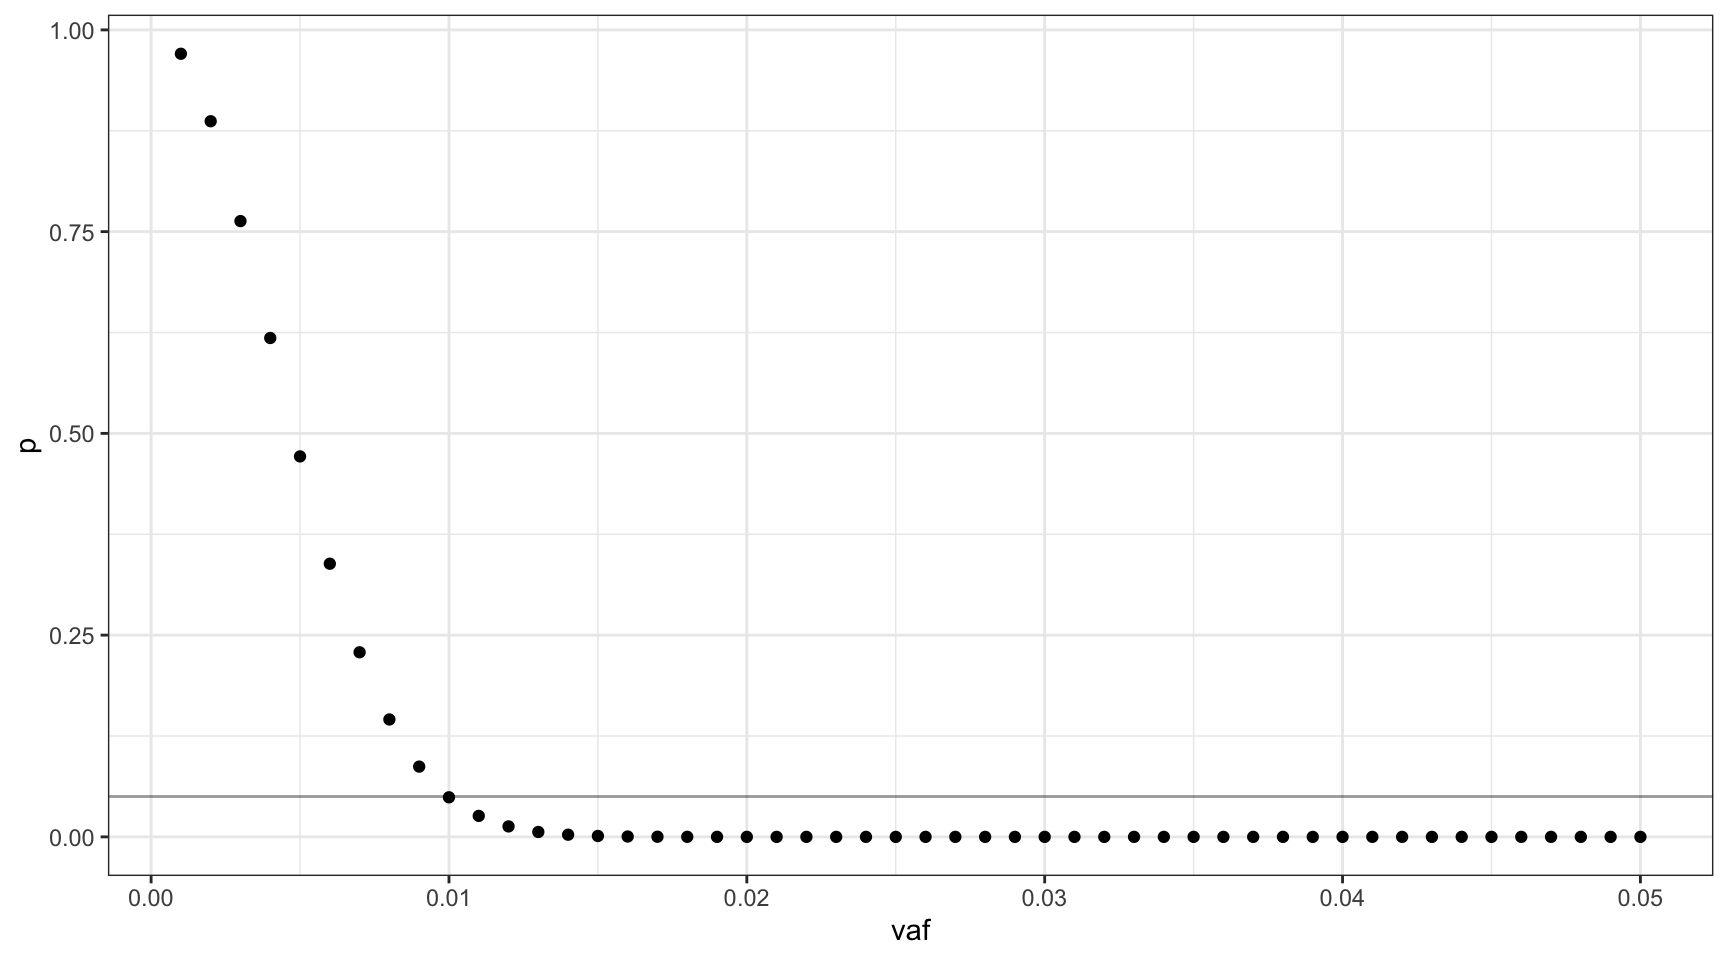
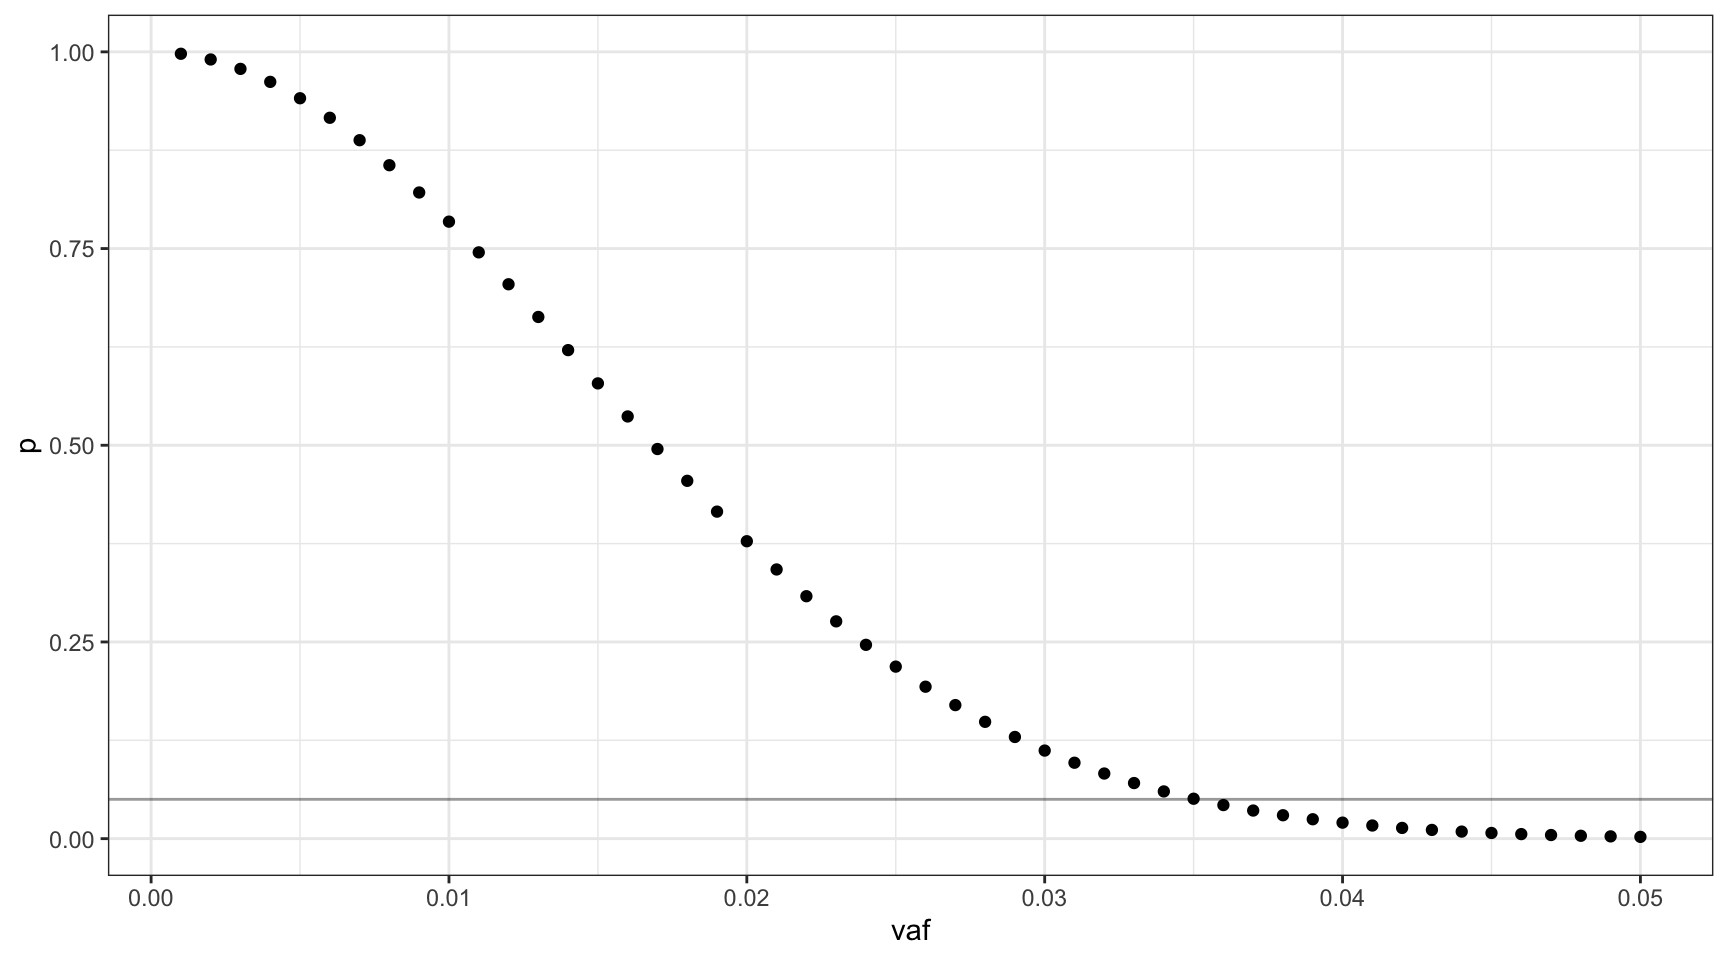
- Fix error in probability calculation - Added varying input cells

diff --git a/docs/model.html b/docs/model.html
@@ -367,7 +367,7 @@ div.tocify {
 
 <p>
 <button type="button" class="btn btn-default btn-workflowr btn-workflowr-report" data-toggle="collapse" data-target="#workflowr-report">
-<span class="glyphicon glyphicon-list" aria-hidden="true"></span> workflowr <span class="glyphicon glyphicon-ok text-success" aria-hidden="true"></span>
+<span class="glyphicon glyphicon-list" aria-hidden="true"></span> workflowr <span class="glyphicon glyphicon-exclamation-sign text-danger" aria-hidden="true"></span>
 </button>
 </p>
 <div id="workflowr-report" class="collapse">
@@ -376,7 +376,7 @@ div.tocify {
 <a data-toggle="tab" href="#summary">Summary</a>
 </li>
 <li>
-<a data-toggle="tab" href="#checks"> Checks <span class="glyphicon glyphicon-ok text-success" aria-hidden="true"></span> </a>
+<a data-toggle="tab" href="#checks"> Checks <span class="glyphicon glyphicon-exclamation-sign text-danger" aria-hidden="true"></span> </a>
 </li>
 <li>
 <a data-toggle="tab" href="#versions">Past versions</a>
@@ -385,10 +385,10 @@ div.tocify {
 <div class="tab-content">
 <div id="summary" class="tab-pane fade in active">
 <p>
-<strong>Last updated:</strong> 2021-09-17
+<strong>Last updated:</strong> 2021-09-22
 </p>
 <p>
-<strong>Checks:</strong> <span class="glyphicon glyphicon-ok text-success" aria-hidden="true"></span> 7 <span class="glyphicon glyphicon-exclamation-sign text-danger" aria-hidden="true"></span> 0
+<strong>Checks:</strong> <span class="glyphicon glyphicon-ok text-success" aria-hidden="true"></span> 6 <span class="glyphicon glyphicon-exclamation-sign text-danger" aria-hidden="true"></span> 1
 </p>
 <p>
 <strong>Knit directory:</strong> <code>rare-mutation-detection-rmarkdown/</code> <span class="glyphicon glyphicon-question-sign" aria-hidden="true" title="This is the local directory in which the code in this file was executed."> </span>
@@ -404,12 +404,12 @@ This reproducible <a href="http://rmarkdown.rstudio.com">R Markdown</a> analysis
 <div class="panel panel-default">
 <div class="panel-heading">
 <p class="panel-title">
-<a data-toggle="collapse" data-parent="#workflowr-checks" href="#strongRMarkdownfilestronguptodate"> <span class="glyphicon glyphicon-ok text-success" aria-hidden="true"></span> <strong>R Markdown file:</strong> up-to-date </a>
+<a data-toggle="collapse" data-parent="#workflowr-checks" href="#strongRMarkdownfilestronguncommittedchanges"> <span class="glyphicon glyphicon-exclamation-sign text-danger" aria-hidden="true"></span> <strong>R Markdown file:</strong> uncommitted changes </a>
 </p>
 </div>
-<div id="strongRMarkdownfilestronguptodate" class="panel-collapse collapse">
+<div id="strongRMarkdownfilestronguncommittedchanges" class="panel-collapse collapse">
 <div class="panel-body">
-<p>Great! Since the R Markdown file has been committed to the Git repository, you know the exact version of the code that produced these results.</p>
+<p>The R Markdown file has unstaged changes. To know which version of the R Markdown file created these results, you’ll want to first commit it to the Git repo. If you’re still working on the analysis, you can ignore this warning. When you’re finished, you can run <code>wflow_publish</code> to commit the R Markdown file and build the HTML.</p>
 </div>
 </div>
 </div>
@@ -476,16 +476,16 @@ This reproducible <a href="http://rmarkdown.rstudio.com">R Markdown</a> analysis
 <div class="panel panel-default">
 <div class="panel-heading">
 <p class="panel-title">
-<a data-toggle="collapse" data-parent="#workflowr-checks" href="#strongRepositoryversionstrongahrefhttpsgithubcommcmeroraremutationdetectiontreeebb9d74647432ec0b35bec27ab7245915b35caa3targetblankebb9d74a"> <span class="glyphicon glyphicon-ok text-success" aria-hidden="true"></span> <strong>Repository version:</strong> <a href="https://github.com/mcmero/rare-mutation-detection/tree/ebb9d74647432ec0b35bec27ab7245915b35caa3" target="_blank">ebb9d74</a> </a>
+<a data-toggle="collapse" data-parent="#workflowr-checks" href="#strongRepositoryversionstrongahrefhttpsgithubcommcmeroraremutationdetectiontreeb680ba04eb31c2ee8ff74999358db02cf37df4a8targetblankb680ba0a"> <span class="glyphicon glyphicon-ok text-success" aria-hidden="true"></span> <strong>Repository version:</strong> <a href="https://github.com/mcmero/rare-mutation-detection/tree/b680ba04eb31c2ee8ff74999358db02cf37df4a8" target="_blank">b680ba0</a> </a>
 </p>
 </div>
[2 lines of base64/hex data omitted]
 <div class="panel-body">
 <p>
 Great! You are using Git for version control. Tracking code development and connecting the code version to the results is critical for reproducibility.
 </p>
 <p>
-The results in this page were generated with repository version <a href="https://github.com/mcmero/rare-mutation-detection/tree/ebb9d74647432ec0b35bec27ab7245915b35caa3" target="_blank">ebb9d74</a>. See the <em>Past versions</em> tab to see a history of the changes made to the R Markdown and HTML files.
+The results in this page were generated with repository version <a href="https://github.com/mcmero/rare-mutation-detection/tree/b680ba04eb31c2ee8ff74999358db02cf37df4a8" target="_blank">b680ba0</a>. See the <em>Past versions</em> tab to see a history of the changes made to the R Markdown and HTML files.
 </p>
 <p>
 Note that you need to be careful to ensure that all relevant files for the analysis have been committed to Git prior to generating the results (you can use <code>wflow_publish</code> or <code>wflow_git_commit</code>). workflowr only checks the R Markdown file, but you know if there are other scripts or data files that it depends on. Below is the status of the Git repository when the results were generated:
@@ -495,6 +495,10 @@ Ignored files:
     Ignored:    .DS_Store
     Ignored:    .Rhistory
     Ignored:    .Rproj.user/
+
+Unstaged changes:
+    Modified:   analysis/model.Rmd
+    Modified:   rare-mutation-detection.Rproj
 
 </code></pre>
 <p>
@@ -533,6 +537,23 @@ Message
 </tr>
 </thead>
 <tbody>
+<tr>
+<td>
+html
+</td>
+<td>
+<a href="https://rawcdn.githack.com/mcmero/rare-mutation-detection/b680ba04eb31c2ee8ff74999358db02cf37df4a8/docs/model.html" target="_blank">b680ba0</a>
+</td>
+<td>
+mcmero
+</td>
+<td>
+2021-09-17
+</td>
+<td>
+Build site.
+</td>
+</tr>
 <tr>
 <td>
 Rmd
@@ -581,7 +602,7 @@ initial commit
 <div id="assumptions" class="section level2">
 <h2>Assumptions</h2>
 <ul>
-<li>We consider a human diploid genome (6.4Gb) without SCNAs</li>
+<li>We consider a human diploid genome without SCNAs</li>
 <li>The mutation is heterozygous</li>
 <li>We sequence 15,000 cells</li>
 <li>Our duplex rate is optimal ~81%</li>
@@ -598,14 +619,14 @@ initial commit
 <li><span class="math inline">\(v\)</span> = target VAF</li>
 <li><span class="math inline">\(p\)</span> = ploidy (2)</li>
 <li><span class="math inline">\(d\)</span> = duplex efficiency (0.81)</li>
-<li><span class="math inline">\(l\)</span> = ligation efficiency</li>
+<li><span class="math inline">\(l\)</span> = ligation efficiency (0.2)</li>
 </ul>
 <p>We assume the probability of selecting a mutant cell is binomially distributed. We want to know the probability of selecting at least one mutant cell:</p>
 <p><span class="math inline">\(P(Bin(f, m)) &gt; 0)\)</span> = 0.95</p>
 <p>This is equivalent to:</p>
 <p><span class="math inline">\(P(Bin(f, m)) = 0)\)</span> = 0.05</p>
-<p>Where <span class="math inline">\(m\)</span> is the number of mutant cells cells (<span class="math inline">\(15000 (v . 2)\)</span>).</p>
-<p>For a range of possible VAFs, <span class="math inline">\(V = \{0.001, 0.002 .. 0.05\}\)</span>, we can plot the probability of missing the mutant cell.</p>
+<p>Where <span class="math inline">\(m\)</span> is the number of mutant cells (<span class="math inline">\(15000 \times 2v\)</span>).</p>
+<p>Since we don’t know <span class="math inline">\(v\)</span>, we’ll define a vector of possible VAFs incremented by <span class="math inline">\(0.001\)</span>, <span class="math inline">\(V = \{0.001, 0.002..0.05\}\)</span>. Using these values, we can plot the probability of missing the mutant cell at each VAF (line is at 0.05).</p>
 <pre class="r"><code>d = 0.81
 l = 0.2
 v = seq(0.001, 0.05, 0.001)
@@ -614,12 +635,13 @@ n = 15000
 m = n * (v * 2)
 
 vafs &lt;- data.frame(vaf=v,
-                   p=dbinom(0, m, v))
+                   p=dbinom(0, m, f),
+                   mutant_cells=(n * v * 2))
 
 ggplot(vafs, aes(vaf, p)) +
-  geom_point() +
-  theme_bw() +
-  geom_hline(yintercept=0.05, alpha=0.4)</code></pre>
+    geom_point() +
+    theme_bw() +
+    geom_hline(yintercept=0.05, alpha=0.4)</code></pre>
 <p><img src="figure/model.Rmd/vaf_plot-1.png" width="864" style="display: block; margin: auto;" /></p>
 <p>
 <button type="button" class="btn btn-default btn-xs btn-workflowr btn-workflowr-fig" data-toggle="collapse" data-target="#fig-vaf_plot-1">
@@ -658,11 +680,57 @@ mcmero
 </table>
 </div>
 </div>
-<p>For this range of VAFs, 0.01 (1%) is the smallest VAF for which the probability of missing the mutant is approximately 0.05.</p>
+<p>We can also plot this as mutant cells instead of VAF:</p>
+<pre class="r"><code>ggplot(vafs, aes(mutant_cells, p)) +
+    geom_point() +
+    theme_bw() +
+    geom_hline(yintercept=0.05, alpha=0.4)</code></pre>
+<p><img src="figure/model.Rmd/mutant_cells_plot-1.png" width="864" style="display: block; margin: auto;" /></p>
+<p>For this range of VAFs, 0.01 (1%) is the smallest VAF for which the probability of missing the mutant is approximately 0.05. A VAF of 0.035 translates to 1050 mutant cells in our input of 15,000.</p>
 <pre class="r"><code>deviation &lt;- abs(0.05 - vafs$p)
 print(vafs[which(deviation == min(deviation)),])</code></pre>
-<pre><code>    vaf          p
-10 0.01 0.04904089</code></pre>
+<pre><code>     vaf          p mutant_cells
+35 0.035 0.05074321         1050</code></pre>
+</div>
+<div id="varying-the-number-of-input-cells" class="section level2">
+<h2>Varying the number of input cells</h2>
+<p>If we change the number of input cells, how does this change the probability calculation? Let’s assume the target VAF is 0.035 from our previous calculation (line is at 0.05).</p>
+<pre class="r"><code>v = 0.035
+n = seq(1000, 20000, 1000)
+m = n * (v * 2)
+f = (v / 2) * d * l
+
+cells &lt;- data.frame(vaf=v,
+                    p=dbinom(0, m, f),
+                    total_cells=n,
+                    mutant_cells=(n * v * 2))
+
+ggplot(cells, aes(total_cells, p)) +
+    geom_point() +
+    theme_bw() +
+    geom_hline(yintercept=0.05, alpha=0.4)</code></pre>
+<p><img src="figure/model.Rmd/varying_input_cells-1.png" width="864" style="display: block; margin: auto;" /></p>
+<p>We can then expand this to different target VAFs.</p>
+<p>Let’s define our VAFs as <span class="math inline">\(V = \{0.01, 0.02..0.2\}\)</span> and put these on a single plot (line at p = 0.05).</p>
+<pre class="r"><code>cells_vs_vaf = NULL
+V = seq(0.01, 0.20, 0.01)
+for (v in V) {
+    m = n * (v * 2)
+    f = (v / 2) * d * l
+    toadd &lt;- data.frame(
+        vaf=as.factor(v),
+        p=dbinom(0, m, f),
+        total_cells=n
+    )
+    cells_vs_vaf &lt;- rbind(cells_vs_vaf, toadd)
+}
+
+ggplot(cells_vs_vaf, aes(total_cells, p, colour=vaf)) +
+    geom_line() +
+    theme_bw() +
+    theme(legend.position = &#39;bottom&#39;) +
+    geom_hline(yintercept=0.05, alpha=0.4)</code></pre>
+<p><img src="figure/model.Rmd/cells_vs_vaf_plot-1.png" width="864" style="display: block; margin: auto;" /></p>
 <br>
 <p>
 <button type="button" class="btn btn-default btn-workflowr btn-workflowr-sessioninfo" data-toggle="collapse" data-target="#workflowr-sessioninfo" style="display: block;">
